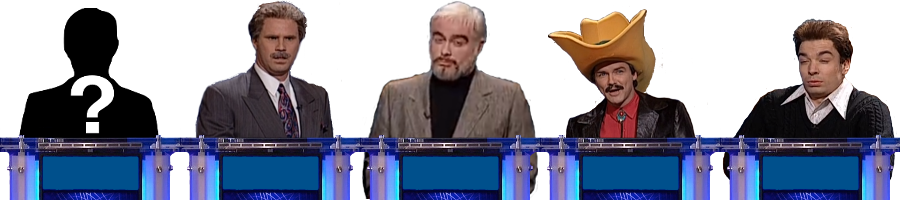
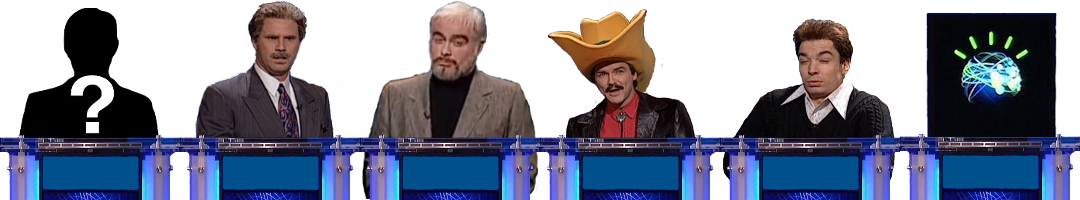
added clue image support

diff --git a/main.py b/main.py
@@ -4,6 +4,7 @@ import random, urllib, urllib2				# FOR GENERATING A CLUE LIBRARY
 import constants							# LOCAL CONSTANTS
 import library								# Block OBJECT CLASS
 import util
+import platform
 import menu as m
 
 from game import *							# Game OBJECT CLASS
@@ -18,11 +19,10 @@ def main():
 
 	menu_active = True
 	game_active = False
-
-	# SETUP USB BUZZERS
-	buzz_dev = usb.core.find()
-	try: buzz_listener = util.buzz_setup(buzz_dev)
-	except: print "BUZZERS (setup):\tFAILED"
+	
+	buzz_dev = None
+	menu = None
+	game = None
 	
 	# INITIALIZE ALL IMPORTED PYGAME/PYTTSX MODULES
 	pygame.init()
@@ -36,12 +36,6 @@ def main():
 	screen = pygame.display.set_mode(constants.DISPLAY_RES)
 	pygame.mouse.set_visible(False)
 	
-	screen.fill(constants.BLUE)
-	
-	# SETUP CLUE LIBRARY
-	#lib = util.lib_setup()
-	#game_set = True
-	
 	# CREATE MENU OBJECT
 	menu = m.Menu(screen)
 	game_set = False
@@ -52,7 +46,17 @@ def main():
 		# update display
 		pygame.display.flip()
 		
-		# generate new game
+		# tick clock
+		# if (clock.tick() % 1000 == 0) check_buzzer = usb.core.find()
+		
+		# SETUP USB BUZZERS
+		if not buzz_dev:
+		
+			buzz_dev = usb.core.find()
+			try: buzz_listener = util.buzz_setup(buzz_dev)
+			except: print "BUZZERS (setup):\tFAILED"
+		
+		# GENERATE NEW GAME
 		if not game_set:
 		
 			setup_ret = util.lib_setup()
@@ -69,30 +73,35 @@ def main():
 					game_active = False
 					menu_active = False
 		
+		# exiting from pygame
 		if not game_active and not menu_active: continue
 		
-		# get input from buzzers
-		buzz_input = __get_input(buzz_dev, buzz_listener)
+		# device set up properly
+		if buzz_dev:
 		
-		# update menu
-		menu_ret = menu.update(util.gamify_input(buzz_input))
-		menu_active = menu_ret[0]
-		active_players = menu_ret[1]
-		sfx_on = menu_ret[2]
-		speech_on = menu_ret[3]
+			# get input from buzzers
+			buzz_input = __get_input(buzz_dev, buzz_listener)
 		
-		
-		# check if new game
-		if menu.get_new_game(): game_set = False
-		
-		# set game active
-		if not menu_active: game_active = True
-		
-	# CREATE GAME OBJECT
-	game = Game(screen, lib, active_players, pyttsx_engine, sfx_on, speech_on)
+			# update menu
+			menu_ret = menu.update(util.gamify_input(buzz_input))
+			
+			# assign game variables
+			menu_active = menu_ret[0]
+			active_players = menu_ret[1]
+			sfx_on = menu_ret[2]
+			speech_on = menu_ret[3]
+				
+			# check if new game
+			if menu.get_new_game(): game_set = False
+			
+			# set game active
+			if not menu_active: game_active = True
 		
 	# GAME LOOP
 	while (game_active):
+	
+		# CREATE GAME OBJECT
+		if not game: game = Game(screen, lib, active_players, pyttsx_engine, sfx_on, speech_on)
 	
 		# update display, pump event queue
 		pygame.display.flip()
@@ -128,6 +137,17 @@ def main():
 	# RETURN USB DEVICE AND PYGAME RESOURCES TO SYSTEM
 	pygame.quit()
 	usb.util.dispose_resources(buzz_dev)
+	
+	# DELETE PULLED IMAGE FILES
+	if 'Windows' in platform.system(): path = 'temp\\'
+	else: path = 'temp/'
+	
+	num = 0
+	while num >= 0:
+		try:
+			os.remove(path + 'temp' + str(num) + '.jpg')
+			num += 1
+		except: num = -1
 	
 	print "PROGRAM HALT"
 

diff --git a/util.py b/util.py
@@ -79,15 +79,15 @@ def get_resource(text, num):
 		# attempt to pull image from j-archive.com
 		try:
 			res = urllib.urlretrieve(text[text.find("http://"):text.find('.jpg')+4], constants.TEMP_PATH + "temp" + str(num) + ".jpg")
-			print res
-			return res
+			
+			if "text/html" in str(res[1]): return None
+			else: return res[0]
+			
 		except:
 			# google image search
 			print "url non-responsive"
-	
+		
 	return None
-	
-	# TODO: DETECT 404 ERRORS
 	
 def parse_jarchive():
 
@@ -135,7 +135,7 @@ def parse_jarchive():
 		resp[i] = scrub_text(resp[i][resp[i].find('class="correct_response">')+25:resp[i].find('</em>')])
 	
 	# RETURN LIBRARY
-	return [cat, clue, resp, info]
+	return [cat, clue, resp, res, info]
 	
 	# TODO: ASSERT UNVISITED CLUES ARE CONSIDERED
 
@@ -144,6 +144,7 @@ def gen_lib_object(parsed):
 	cat = gamify_list(parsed[0])
 	clue = gamify_list(parsed[1])
 	resp = gamify_list(parsed[2])
+	res = gamify_list(parsed[3])
 	
 	lib = []
 
@@ -155,7 +156,7 @@ def gen_lib_object(parsed):
 		for j in range(len(clue[i])):
 			lib[-1].append([])
 			for k in range(len(clue[i][j])):
-				lib[-1][-1].append(library.Block(library.Category(cat[i][j][0]), library.Clue(clue[i][j][k]), library.Response(resp[i][j][k])))
+				lib[-1][-1].append(library.Block(library.Category(cat[i][j][0]), library.Clue(clue[i][j][k]), library.Response(resp[i][j][k]), library.Resource(res[i][j][k])))
 		
 	return lib
 	

diff --git a/game.py b/game.py
@@ -301,9 +301,16 @@ class Game:
 		# scale character surface
 		scaled_image = pygame.transform.scale(char_surf, (char_surf.get_width()*3, char_surf.get_height()*3))
 		
+		res_surface = self.cur_block.resource.surface
+		
 		# blit character and text to screen
 		util.blit_alpha(self.screen, scaled_image, (0, DISPLAY_RES[1]-scaled_image.get_height()), 100)
 		self.screen.blit(char_surf, (0, DISPLAY_RES[1]-char_surf.get_height()))
+		
+		if res_surface:
+			res_surface = pygame.transform.scale(res_surface, (res_surface.get_width()/2, res_surface.get_height()/2))
+			self.screen.blit(res_surface, (DISPLAY_RES[0]/2 - res_surface.get_width()/2, 400))
+		
 		self.screen.blit(clue_surf, (DISPLAY_RES[0]/2 - BOARD_SIZE[0]/2, -200))
 		self.screen.blit(text_surf, (DISPLAY_RES[0]/2 - BOARD_SIZE[0]/2,0))
 		

diff --git a/library.py b/library.py
@@ -2,11 +2,12 @@ import util, constants, pygame, gen
 
 class Block:
 
-	def __init__(self, category, clue, response):
+	def __init__(self, category, clue, response, resource):
 	
 		self.category = category
 		self.clue = clue
 		self.response = response
+		self.resource = resource
 		
 	def cat_board_surface(self): return self.category.board_surface
 	
@@ -67,3 +68,19 @@ class Response:
 		# CALL TO __generate_surface()
 		
 	def __str__(self): return self.text
+	
+class Resource:
+
+	def __init__(self, res):
+	
+		# data
+		self.res = res
+		self.surface = self.__generate_surf(res)
+		
+	def __generate_surf(self, res):
+	
+		if res: return pygame.image.load(res)
+		
+		else: return None
+		
+	def __str__(self): return self.res

diff --git a/constants.py b/constants.py
@@ -3,7 +3,7 @@ import platform, pygame
 # game information
 ################
 MAX_GAME = 4985
-NUM_SPRITES = 4
+NUM_SPRITES = 5
 ################
 
 # addressing
@@ -83,6 +83,7 @@ WRONG_SOUNDS.append(pygame.mixer.Sound(MUSIC_PATH + "alex_wrong.ogg"))
 WRONG_SOUNDS.append(pygame.mixer.Sound(MUSIC_PATH + "sean_wrong.ogg"))
 WRONG_SOUNDS.append(pygame.mixer.Sound(MUSIC_PATH + "burt_wrong.ogg"))
 WRONG_SOUNDS.append(pygame.mixer.Sound(MUSIC_PATH + "french_wrong.ogg"))
+WRONG_SOUNDS.append(pygame.mixer.Sound(MUSIC_PATH + "french_wrong.ogg")) # PLACEHOLDER FOR WATSON'S SOUND
 ################
 
 # state constants
